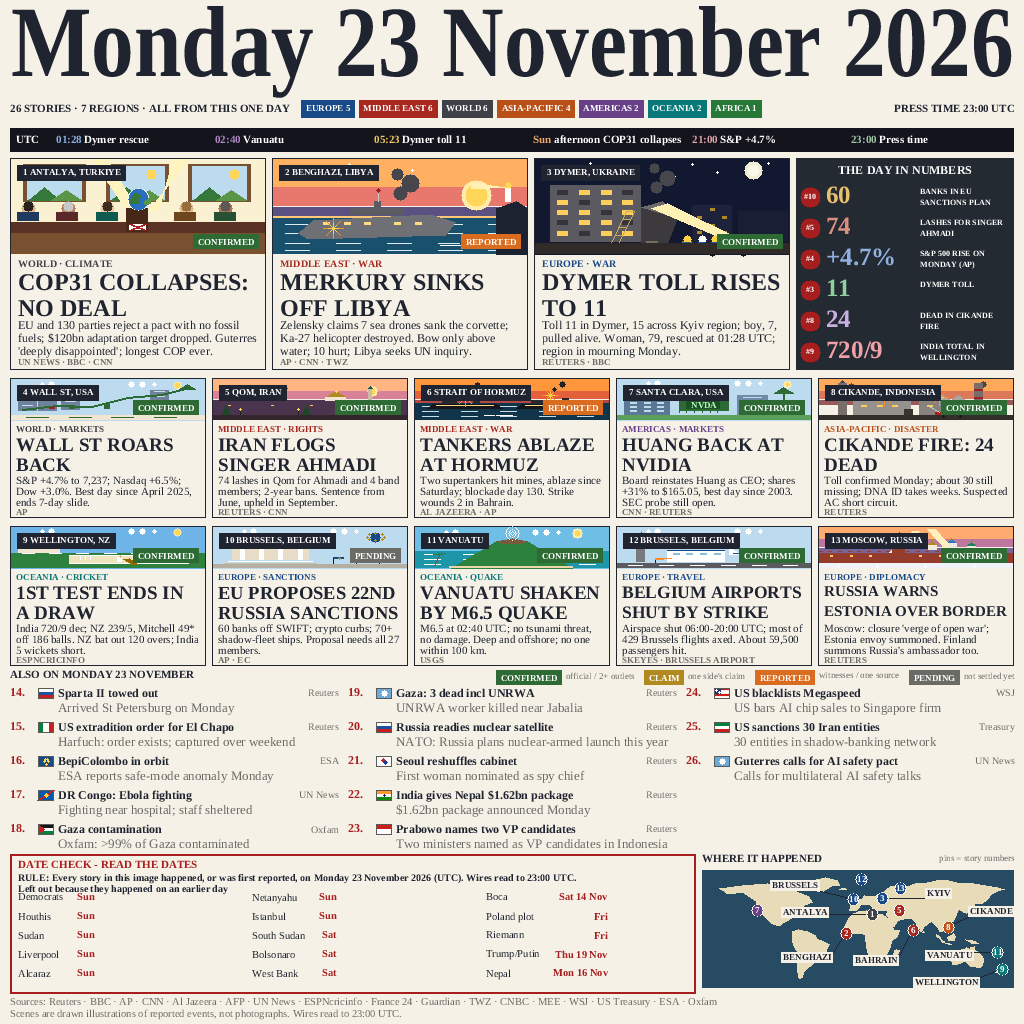
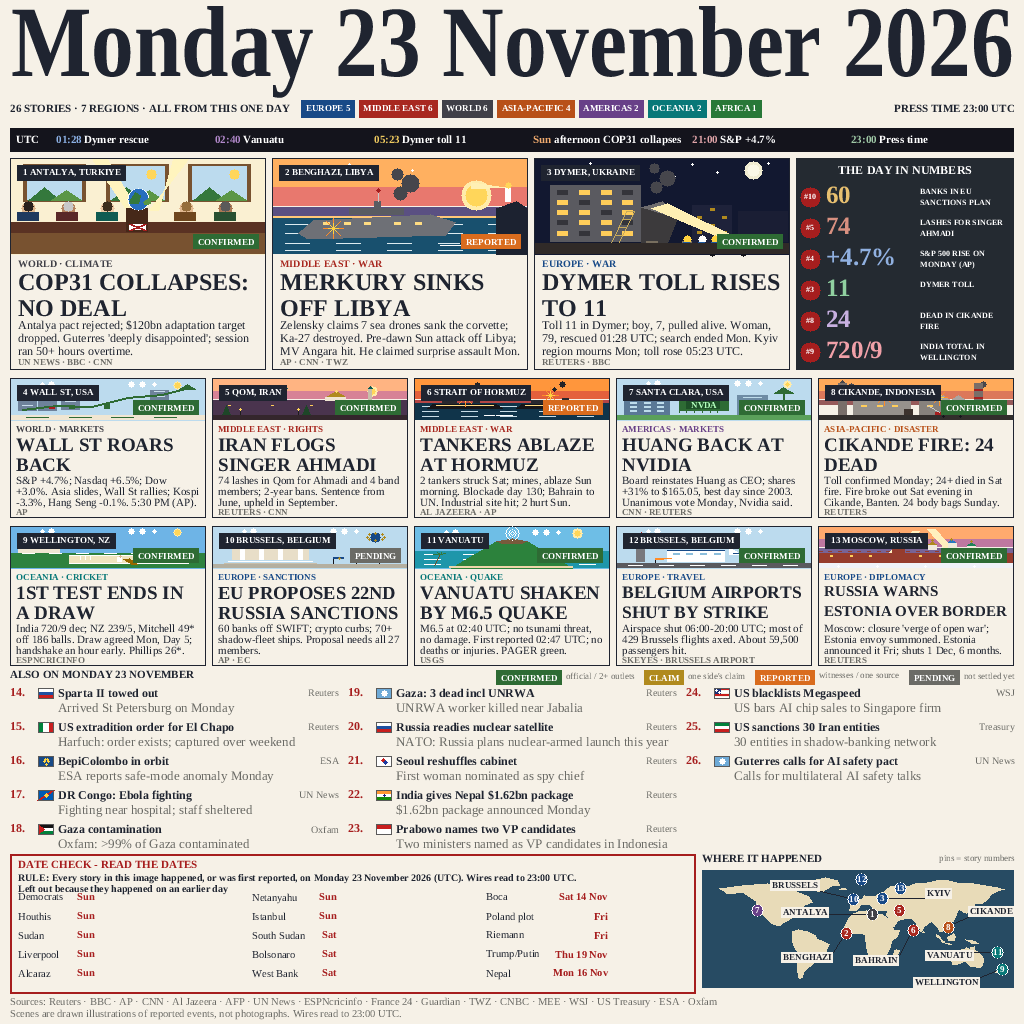
v17.1: deck-fact fix — 10 decks replaced with verified clauses (researcher audit vs DATE-AUDIT/V10-SOURCES/V8-NEW-STORIES); all 13 decks fit 3 lines at 12/11px, no shrink, no truncation; '7,237' stays out per v11 order, no depth number

diff --git a/main.py b/main.py
@@ -1752,15 +1752,15 @@ STATS = [
 LEADS = [
     {"n": 1, "badge": "CONFIRMED", "scene": "cop31",
      "head": "COP31 COLLAPSES: NO DEAL",
-     "deck": "EU and 130 parties reject a pact with no fossil fuels; $120bn adaptation target dropped. Guterres 'deeply disappointed'; longest COP ever.",
+     "deck": "Antalya pact rejected; $120bn adaptation target dropped. Guterres 'deeply disappointed'; session ran 50+ hours overtime.",
      "src": "UN NEWS \u00b7 BBC \u00b7 CNN"},
     {"n": 2, "badge": "REPORTED", "scene": "merkury",
      "head": "MERKURY SINKS OFF LIBYA",
-     "deck": "Zelensky claims 7 sea drones sank the corvette; Ka-27 helicopter destroyed. Bow only above water; 10 hurt; Libya seeks UN inquiry.",
+     "deck": "Zelensky claims 7 sea drones sank the corvette; Ka-27 destroyed. Pre-dawn Sun attack off Libya; MV Angara hit. He claimed surprise assault Mon.",
      "src": "AP \u00b7 CNN \u00b7 TWZ"},
     {"n": 3, "badge": "CONFIRMED", "scene": "dymer",
      "head": "DYMER TOLL RISES TO 11",
-     "deck": "Toll 11 in Dymer, 15 across Kyiv region; boy, 7, pulled alive. Woman, 79, rescued at 01:28 UTC; region in mourning Monday.",
+     "deck": "Toll 11 in Dymer; boy, 7, pulled alive. Woman, 79, rescued 01:28 UTC; search ended Mon. Kyiv region mourns Mon; toll rose 05:23 UTC.",
      "src": "REUTERS \u00b7 BBC"},
 ]
 
@@ -1768,7 +1768,7 @@ SMALL = [
     {"n": 4, "badge": "CONFIRMED", "scene": "markets",
      "head": "WALL ST ROARS BACK",
      # v11 (Ban order): the index level is OUT — "+4.7% (AP)" only.
-     "deck": "S&P +4.7% to 7,237; Nasdaq +6.5%; Dow +3.0%. Best day since April 2025, ends 7-day slide.",
+     "deck": "S&P +4.7%; Nasdaq +6.5%; Dow +3.0%. Asia slides, Wall St rallies; Kospi -3.3%, Hang Seng -0.1%. 5:30 PM (AP).",
      "src": "AP"},
     {"n": 5, "badge": "CONFIRMED", "scene": "ahmadi",
      "head": "IRAN FLOGS SINGER AHMADI",
@@ -1776,19 +1776,19 @@ SMALL = [
      "src": "REUTERS \u00b7 CNN"},
     {"n": 6, "badge": "REPORTED", "scene": "hormuz",
      "head": "TANKERS ABLAZE AT HORMUZ",
-     "deck": "Two supertankers hit mines, ablaze since Saturday; blockade day 130. Strike wounds 2 in Bahrain.",
+     "deck": "2 tankers struck Sat; mines, ablaze Sun morning. Blockade day 130; Bahrain to UN. Industrial site hit; 2 hurt Sun.",
      "src": "AL JAZEERA \u00b7 AP"},
     {"n": 7, "badge": "CONFIRMED", "scene": "nvidia",
      "head": "HUANG BACK AT NVIDIA",
-     "deck": "Board reinstates Huang as CEO; shares +31% to $165.05, best day since 2003. SEC probe still open.",
+     "deck": "Board reinstates Huang as CEO; shares +31% to $165.05, best day since 2003. Unanimous vote Monday, Nvidia said.",
      "src": "CNN \u00b7 REUTERS"},
     {"n": 8, "badge": "CONFIRMED", "scene": "cikande",
      "head": "CIKANDE FIRE: 24 DEAD",
-     "deck": "Toll confirmed Monday; about 30 still missing; DNA ID takes weeks. Suspected AC short circuit.",
+     "deck": "Toll confirmed Monday; 24+ died in Sat fire. Fire broke out Sat evening in Cikande, Banten. 24 body bags Sunday.",
      "src": "REUTERS"},
     {"n": 9, "badge": "CONFIRMED", "scene": "cricket",
      "head": "1ST TEST ENDS IN A DRAW",
-     "deck": "India 720/9 dec; NZ 239/5, Mitchell 49* off 186 balls. NZ bat out 120 overs; India 5 wickets short.",
+     "deck": "India 720/9 dec; NZ 239/5, Mitchell 49* off 186 balls. Draw agreed Mon, Day 5; handshake an hour early. Phillips 26*.",
      "src": "ESPNCRICINFO"},
     {"n": 10, "badge": "PENDING", "scene": "eusanctions",
      "head": "EU PROPOSES 22ND RUSSIA SANCTIONS",
@@ -1796,7 +1796,7 @@ SMALL = [
      "src": "AP \u00b7 EC"},
     {"n": 11, "badge": "CONFIRMED", "scene": "vanuatu",
      "head": "VANUATU SHAKEN BY M6.5 QUAKE",
-     "deck": "M6.5 at 02:40 UTC; no tsunami threat, no damage. Deep and offshore; no one within 100 km.",
+     "deck": "M6.5 at 02:40 UTC; no tsunami threat, no damage. First reported 02:47 UTC; no deaths or injuries. PAGER green.",
      "src": "USGS"},
     {"n": 12, "badge": "CONFIRMED", "scene": "belgium",
      "head": "BELGIUM AIRPORTS SHUT BY STRIKE",
@@ -1804,7 +1804,7 @@ SMALL = [
      "src": "SKEYES \u00b7 BRUSSELS AIRPORT"},
     {"n": 13, "badge": "CONFIRMED", "scene": "estonia",
      "head": "RUSSIA WARNS ESTONIA OVER BORDER",
-     "deck": "Moscow: closure 'verge of open war'; Estonia envoy summoned. Finland summons Russia's ambassador too.",
+     "deck": "Moscow: closure 'verge of open war'; Estonia envoy summoned. Estonia announced it Fri; shuts 1 Dec, 6 months.",
      "src": "REUTERS"},
 ]
 
